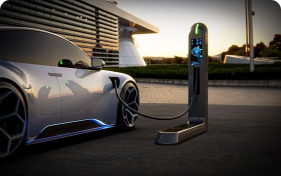
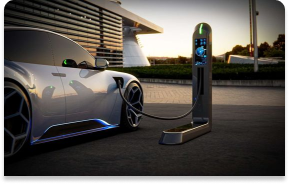
Subindo alterações na home

diff --git a/Voltair/src/components/Card/Card.js b/Voltair/src/components/Card/Card.js
@@ -1,33 +1,33 @@
 import { StyleSheet, Text } from "react-native"
-import { CardImagens, CardInformation, ContainerCard, ImageCard} from "./Style"
+import { CardImagens, CardInformation, ContainerCard, ImageCard } from "./Style"
 import { useState } from "react";
 import ModalLoading from "../Modal/ModalLoading";
 import ModalInformations from "../Modal/ModalInformations";
 
-export const Card = ({navigation}) => {
+export const Card = ({ navigation }) => {
 
-    const [modalLoadingVisible, setModalLoadingVisible] = useState(false);    
-    const [modalInformationsVisible, setModalInformationsVisible] = useState(false);    
-    
+    const [modalLoadingVisible, setModalLoadingVisible] = useState(false);
+    const [modalInformationsVisible, setModalInformationsVisible] = useState(false);
 
-return(
-    <ContainerCard>
-        <CardImagens onPress={() => setModalLoadingVisible(true)} >
-        <ImageCard source={require("../../../assets/Imagem-home-01.png")}/>
-        <CardInformation>
-            <Text style={styles.textCard}>Carregamento</Text>
-        </CardInformation>
-        </CardImagens>
-        
-        <CardImagens  onPress={() => setModalInformationsVisible(true)}>
-        <ImageCard source={require("../../../assets/Imagem-home-02.png")}/>
-        <CardInformation>
-        <Text style={styles.textCard}>Informações Da Bateria </Text>
-        </CardInformation>
-        </CardImagens>
-        
-        
-        <ModalLoading
+
+    return (
+        <ContainerCard>
+            <CardImagens onPress={() => setModalLoadingVisible(true)} >
+                <ImageCard source={require("../../../assets/Imagem-home-01.png")} />
+                <CardInformation>
+                    <Text style={styles.textCard}>Carregamento</Text>
+                </CardInformation>
+            </CardImagens>
+
+            <CardImagens onPress={() => setModalInformationsVisible(true)}>
+                <ImageCard source={require("../../../assets/Imagem-home-02.png")} />
+                <CardInformation>
+                    <Text style={styles.textCard}>Informações Da Bateria </Text>
+                </CardInformation>
+            </CardImagens>
+
+
+            <ModalLoading
                 visible={modalLoadingVisible}
                 navigation={navigation}
                 onClose={() => setModalLoadingVisible(false)}
@@ -43,28 +43,28 @@ return(
                 onClose={() => setModalInformationsVisible(false)}
                 setModalVisible={setModalInformationsVisible}
                 title={"Informações Da Bateria"}
-                 information1={"Ciclo de vida "}
-                 answer1={"98% de capacidade restante"}
-                 information2={"Degradação"}
-                 answer2={'Capacidade da Bateria: 75 kWh Eficiência do Veículo: 0,15 kWh/km'}
-                 information3={'Autonomia'}
-                 answer3={'500km'}
-                 buttonTextLoading={"teste"}
+                information1={"Ciclo de vida "}
+                answer1={"98% de capacidade restante"}
+                information2={"Degradação"}
+                answer2={'Capacidade da Bateria: 75 kWh Eficiência do Veículo: 0,15 kWh/km'}
+                information3={'Autonomia'}
+                answer3={'500km'}
+                buttonTextLoading={"teste"}
                 buttonText={"Confirmar"}
             />
 
-    </ContainerCard>
+        </ContainerCard>
 
-    
-)
+
+    )
 }
 
 const styles = StyleSheet.create({
-    textCard:{
-       fontSize:16,
-       color:'#313131',
-       fontFamily: 'Poppins_400Regular',
-       textAlign: 'center',
-       alignSelf: 'center'
+    textCard: {
+        fontSize: 16,
+        color: '#313131',
+        fontFamily: 'Poppins_400Regular',
+        textAlign: 'center',
+        alignSelf: 'center'
     }
-    })
+})

diff --git a/Voltair/src/components/Card/Style.js b/Voltair/src/components/Card/Style.js
@@ -4,22 +4,22 @@ export const ContainerCard = styled.SafeAreaView`
 flex: 1;
 `
 export const CardImagens = styled.TouchableOpacity`
-width: 60%;
-height: 25%;
+width: 64.35%;
+height: 176px;
 align-self: center;
 margin-top: -10%;
-margin-bottom: 40%;
+margin-bottom: 94px;
 `
  export const ImageCard = styled.Image`
  align-self: center;
- margin-bottom:43%;
+ width:100%;
+ height: 100%;
  `
 
  export const CardInformation = styled.View`
- width: 122%;
- height: 28%;
+ width: 100%;
  background-color: white;
- align-self: center;
- margin-top: -56%;
+ align-self: flex-end;
+ margin-top: -10.50%;
  opacity: 0.90;
  `
